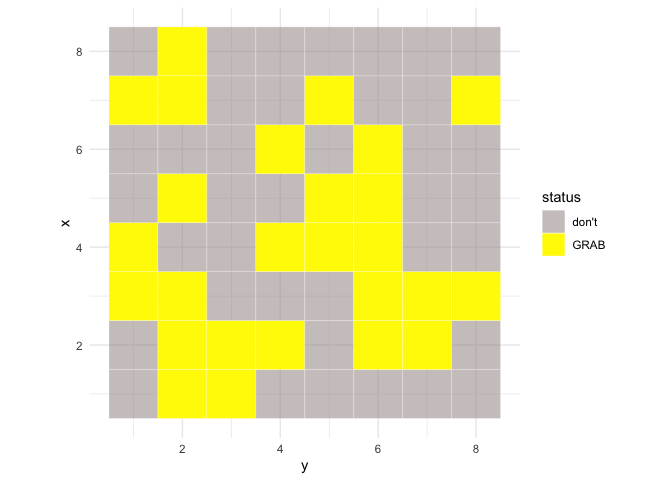
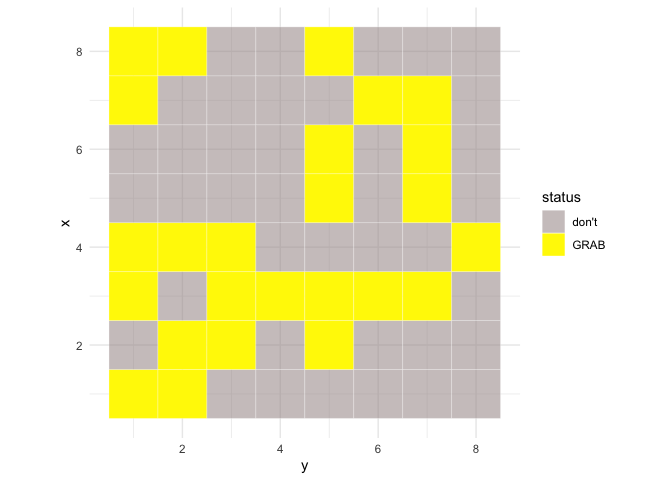
final updates

Changed region(s): [[0.2188, 0.0312, 0.75, 0.875], [0.1562, 0.0312, 0.3125, 0.2812], [0.1562, 0.75, 0.25, 0.875]]

diff --git a/README.md b/README.md
@@ -21,17 +21,7 @@ devtools::install_github("mariegiehmoverby/CandyHapsinatoR2000")
 ## Vignette
 
 You can find the vignette for CandyHapsinatoR2000
-[here](https://github.com/mariegiehmoverby/CandyHapsinatoR2000/tree/master/vignettes)
-
-``` r
-vignette("CandyHapsinatoR2000")
-#> Warning: vignette 'CandyHapsinatoR2000' not found
-```
-
-``` r
-browseVignettes("CandyHapsinatoR2000")
-#> No vignettes found by browseVignettes("CandyHapsinatoR2000")
-```
+[HERE](https://github.com/mariegiehmoverby/CandyHapsinatoR2000/tree/master/vignettes)
 
 ## Example
 
@@ -51,9 +41,9 @@ print(candy)
 #> Tile statuses:
 #> 
 #> don't  GRAB 
-#>    38    26 
+#>    39    25 
 #> Coordinates of candies to GRAB:
-#> (3,1)  (4,1)  (7,1)  (1,2)  (2,2)  (3,2)  (5,2)  (7,2)  (8,2)  (1,3)  (2,3)  (2,4)  (4,4)  (6,4)  (4,5)  (5,5)  (7,5)  (2,6)  (3,6)  (4,6)  (5,6)  (6,6)  (2,7)  (3,7)  (3,8)  (7,8)
+#> (1,1)  (3,1)  (4,1)  (7,1)  (8,1)  (1,2)  (2,2)  (4,2)  (8,2)  (2,3)  (3,3)  (4,3)  (3,4)  (2,5)  (3,5)  (5,5)  (6,5)  (8,5)  (3,6)  (7,6)  (3,7)  (5,7)  (6,7)  (7,7)  (4,8)
 ```
 
 Summary of the hapsinatoR object will give you a summary of the candy
@@ -67,10 +57,10 @@ summary(candy)
 #> Number of different candies: 64 
 #> Number of candies to GRAB: 32 
 #> Total grams to mix: 1000 
-#> Total grams mixed: 1006 
+#> Total grams mixed: 991 
 #> =================================
 #> Candies to GRAB are at locations:
-#> (3,1)  (4,1)  (7,1)  (1,2)  (2,2)  (3,2)  (5,2)  (7,2)  (8,2)  (1,3)  (2,3)  (2,4)  (4,4)  (6,4)  (4,5)  (5,5)  (7,5)  (2,6)  (3,6)  (4,6)  (5,6)  (6,6)  (2,7)  (3,7)  (3,8)  (7,8)
+#> (1,1)  (3,1)  (4,1)  (7,1)  (8,1)  (1,2)  (2,2)  (4,2)  (8,2)  (2,3)  (3,3)  (4,3)  (3,4)  (2,5)  (3,5)  (5,5)  (6,5)  (8,5)  (3,6)  (7,6)  (3,7)  (5,7)  (6,7)  (7,7)  (4,8)
 ```
 
 Plotting the hapsinatoR object will give you a visual representation of
